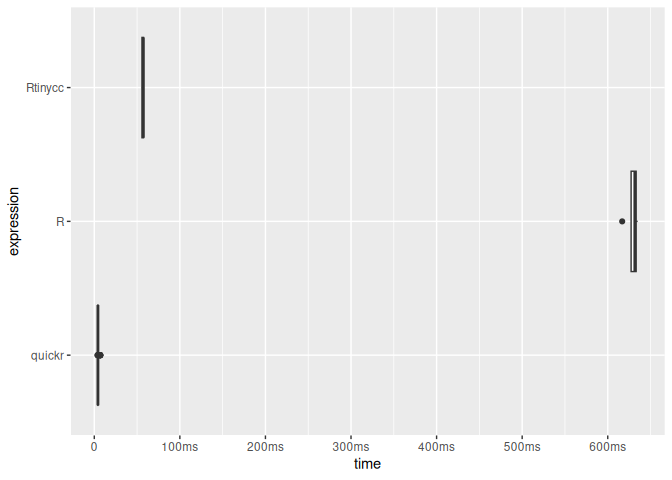
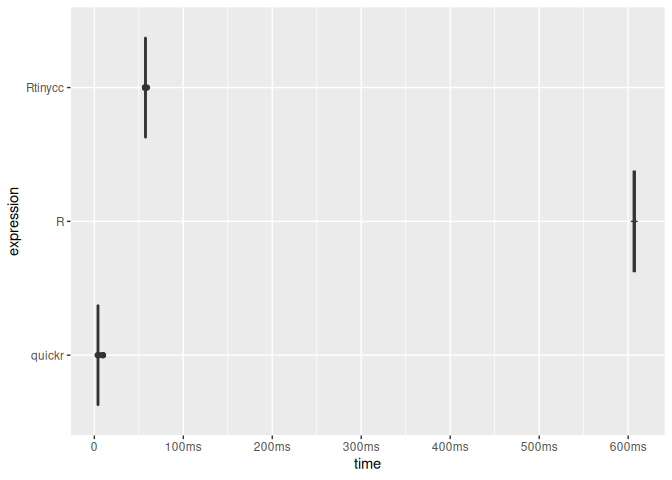
deslopify(ifelse death): more removals

diff --git a/README.md b/README.md
@@ -177,7 +177,7 @@ tcc_read_cstring(ptr)
 tcc_read_bytes(ptr, 5)
 #> [1] 68 65 6c 6c 6f
 tcc_ptr_addr(ptr, hex = TRUE)
-#> [1] "0x5e7ed53b2870"
+#> [1] "0x55e87fdc5010"
 tcc_ptr_is_null(ptr)
 #> [1] FALSE
 tcc_free(ptr)
@@ -208,11 +208,11 @@ through output parameters.
 ptr_ref <- tcc_malloc(.Machine$sizeof.pointer %||% 8L)
 target <- tcc_malloc(8)
 tcc_ptr_set(ptr_ref, target)
-#> <pointer: 0x5e7ed5e2a050>
+#> <pointer: 0x55e880cbb1f0>
 tcc_data_ptr(ptr_ref)
-#> <pointer: 0x5e7ed690ede0>
+#> <pointer: 0x55e88108e0a0>
 tcc_ptr_set(ptr_ref, tcc_null_ptr())
-#> <pointer: 0x5e7ed5e2a050>
+#> <pointer: 0x55e880cbb1f0>
 tcc_free(target)
 #> NULL
 tcc_free(ptr_ref)
@@ -275,8 +275,8 @@ bench::mark(
 #> # A tibble: 2 × 6
 #>   expression      min   median `itr/sec` mem_alloc `gc/sec`
 #>   <bch:expr> <bch:tm> <bch:tm>     <dbl> <bch:byt>    <dbl>
-#> 1 Rtinycc      35.8ms     63ms      17.4  213.99KB     27.1
-#> 2 Rbuiltin    549.3µs    580µs    1625.     9.05KB     28.0
+#> 1 Rtinycc       908ms    908ms      1.10   134.1MB     15.4
+#> 2 Rbuiltin      549µs    577µs   1646.      9.05KB     12.0
 
 # For performance-sensitive code, move the loop into C and operate on arrays.
 ffi_vec <- tcc_ffi() |>
@@ -305,8 +305,8 @@ bench::mark(
 #> # A tibble: 2 × 6
 #>   expression        min   median `itr/sec` mem_alloc `gc/sec`
 #>   <bch:expr>   <bch:tm> <bch:tm>     <dbl> <bch:byt>    <dbl>
-#> 1 Rtinycc_vec    20.2µs   21.3µs    41956.    39.1KB     29.4
-#> 2 Rbuiltin_vec     17µs   17.7µs    55366.    78.2KB     83.2
+#> 1 Rtinycc_vec    95.5µs  101.9µs     9669.    52.8KB     15.0
+#> 2 Rbuiltin_vec   16.9µs   17.7µs    47607.    78.2KB     33.3
 ```
 
 ### Variadic calls (e.g. `Rprintf` style)
@@ -428,7 +428,7 @@ ffi <- tcc_ffi() |>
 
 x <- as.integer(1:100) # to avoid ALTREP
 .Internal(inspect(x))
-#> @5e7edae6de08 13 INTSXP g0c0 [REF(65535)]  1 : 100 (compact)
+#> @55e8952fc4d8 13 INTSXP g0c0 [REF(65535)]  1 : 100 (compact)
 ffi$sum_array(x, length(x))
 #> [1] 5050
 
@@ -444,7 +444,7 @@ y[1]
 #> [1] 11
 
 .Internal(inspect(x))
-#> @5e7edae6de08 13 INTSXP g0c0 [MARK,REF(65535)]  11 : 110 (expanded)
+#> @55e8952fc4d8 13 INTSXP g0c0 [REF(65535)]  11 : 110 (expanded)
 ```
 
 ### Benchmark
@@ -508,9 +508,9 @@ timings
 #> # A tibble: 3 × 6
 #>   expression      min   median `itr/sec` mem_alloc `gc/sec`
 #>   <bch:expr> <bch:tm> <bch:tm>     <dbl> <bch:byt>    <dbl>
-#> 1 R          632.54ms 632.54ms      1.58     844KB    4.74 
-#> 2 quickr       3.81ms   4.26ms    235.       782KB    4.11 
-#> 3 Rtinycc     55.52ms  57.21ms     17.6      782KB    0.503
+#> 1 R          602.09ms 604.36ms      1.66     844KB    0.552
+#> 2 quickr       3.78ms   4.14ms    241.       782KB    1.52 
+#> 3 Rtinycc     57.08ms  57.77ms     17.3      796KB    0
 plot(timings, type = "boxplot") + bench::scale_x_bench_time(base = NULL)
 ```
 
@@ -538,15 +538,15 @@ ffi <- tcc_ffi() |>
 
 p1 <- ffi$struct_point_new()
 ffi$struct_point_set_x(p1, 0.0)
-#> <pointer: 0x5e7edaa30fe0>
+#> <pointer: 0x55e89aa5bab0>
 ffi$struct_point_set_y(p1, 0.0)
-#> <pointer: 0x5e7edaa30fe0>
+#> <pointer: 0x55e89aa5bab0>
 
 p2 <- ffi$struct_point_new()
 ffi$struct_point_set_x(p2, 3.0)
-#> <pointer: 0x5e7ed887cce0>
+#> <pointer: 0x55e87feec470>
 ffi$struct_point_set_y(p2, 4.0)
-#> <pointer: 0x5e7ed887cce0>
+#> <pointer: 0x55e87feec470>
 
 ffi$distance(p1, p2)
 #> [1] 5
@@ -591,9 +591,9 @@ ffi <- tcc_ffi() |>
 
 s <- ffi$struct_flags_new()
 ffi$struct_flags_set_active(s, 1L)
-#> <pointer: 0x5e7ed6e6b040>
+#> <pointer: 0x55e87fe2b990>
 ffi$struct_flags_set_level(s, 9L)
-#> <pointer: 0x5e7ed6e6b040>
+#> <pointer: 0x55e87fe2b990>
 ffi$struct_flags_get_active(s)
 #> [1] 1
 ffi$struct_flags_get_level(s)
@@ -885,7 +885,7 @@ ffi <- tcc_ffi() |>
   tcc_compile()
 
 ffi$struct_point_new()
-#> <pointer: 0x5e7ed4d6ade0>
+#> <pointer: 0x55e8842cc6b0>
 ffi$enum_status_OK()
 #> [1] 0
 ffi$global_global_counter_get()
@@ -938,11 +938,11 @@ ffi <- tcc_ffi() |>
 o <- ffi$struct_outer_new()
 i <- ffi$struct_inner_new()
 ffi$struct_inner_set_a(i, 42L)
-#> <pointer: 0x5e7ee53999a0>
+#> <pointer: 0x55e89ab4bc30>
 
 # Write the inner pointer into the outer struct
 ffi$struct_outer_in_addr(o) |> tcc_ptr_set(i)
-#> <pointer: 0x5e7ed4f87400>
+#> <pointer: 0x55e88f858b20>
 
 # Read it back through indirection
 ffi$struct_outer_in_addr(o) |>
@@ -971,9 +971,9 @@ ffi <- tcc_ffi() |>
 
 b <- ffi$struct_buf_new()
 ffi$struct_buf_set_data_elt(b, 0L, 0xCAL)
-#> <pointer: 0x5e7ed72d0be0>
+#> <pointer: 0x55e89742ca90>
 ffi$struct_buf_set_data_elt(b, 1L, 0xFEL)
-#> <pointer: 0x5e7ed72d0be0>
+#> <pointer: 0x55e89742ca90>
 ffi$struct_buf_get_data_elt(b, 0L)
 #> [1] 202
 ffi$struct_buf_get_data_elt(b, 1L)
